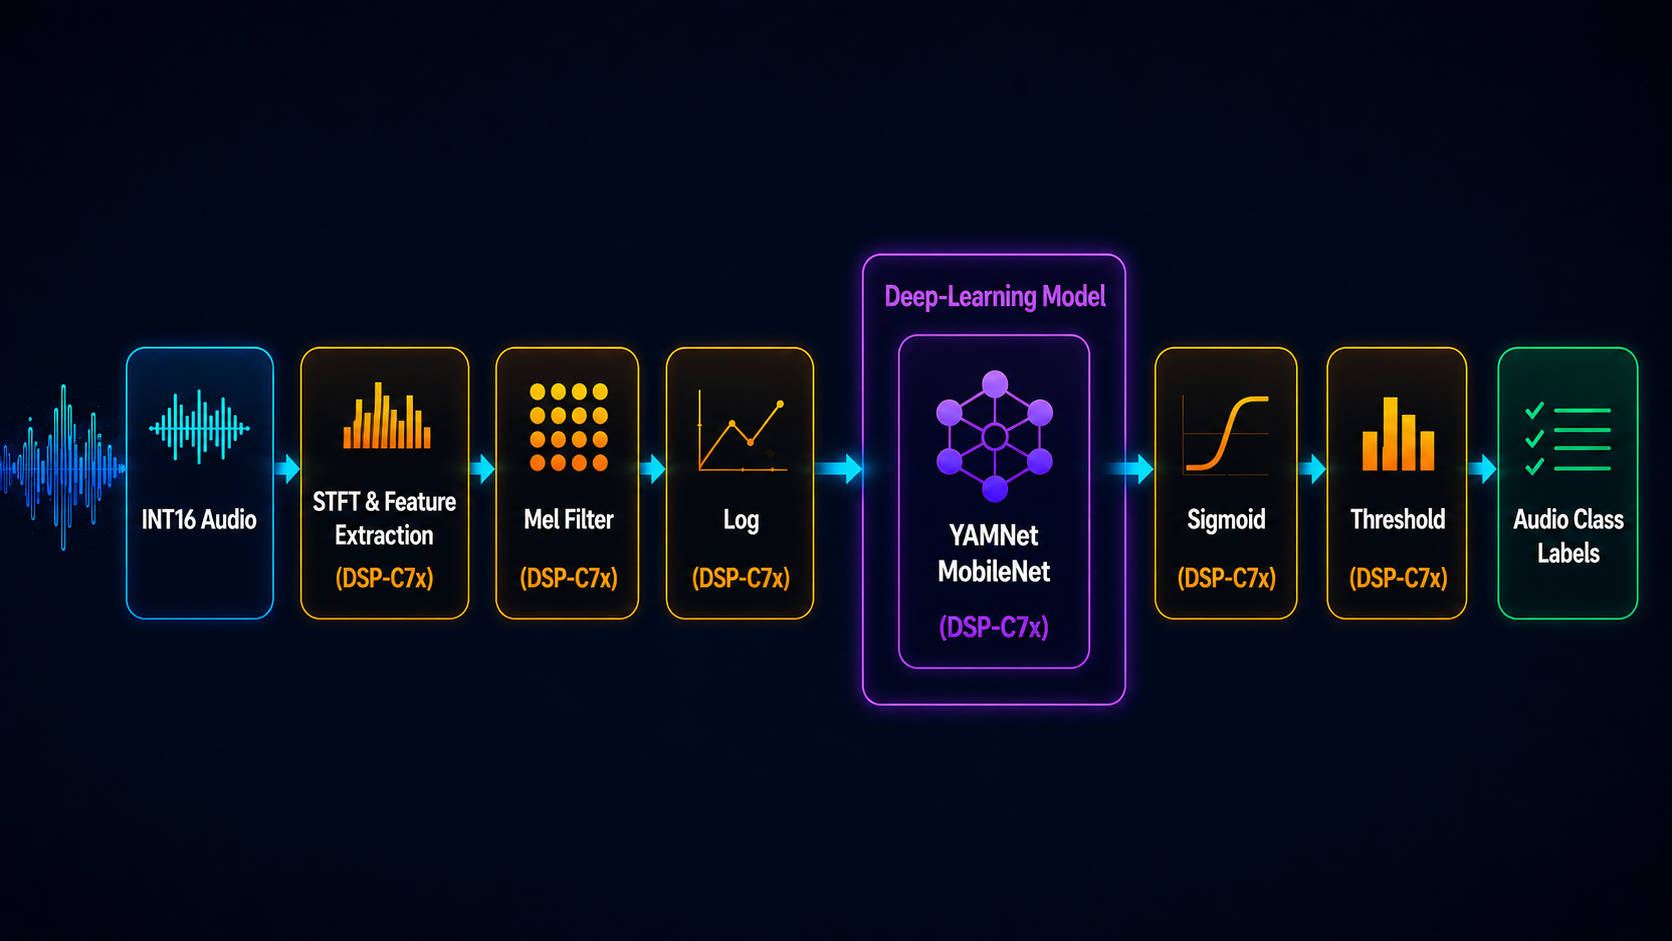
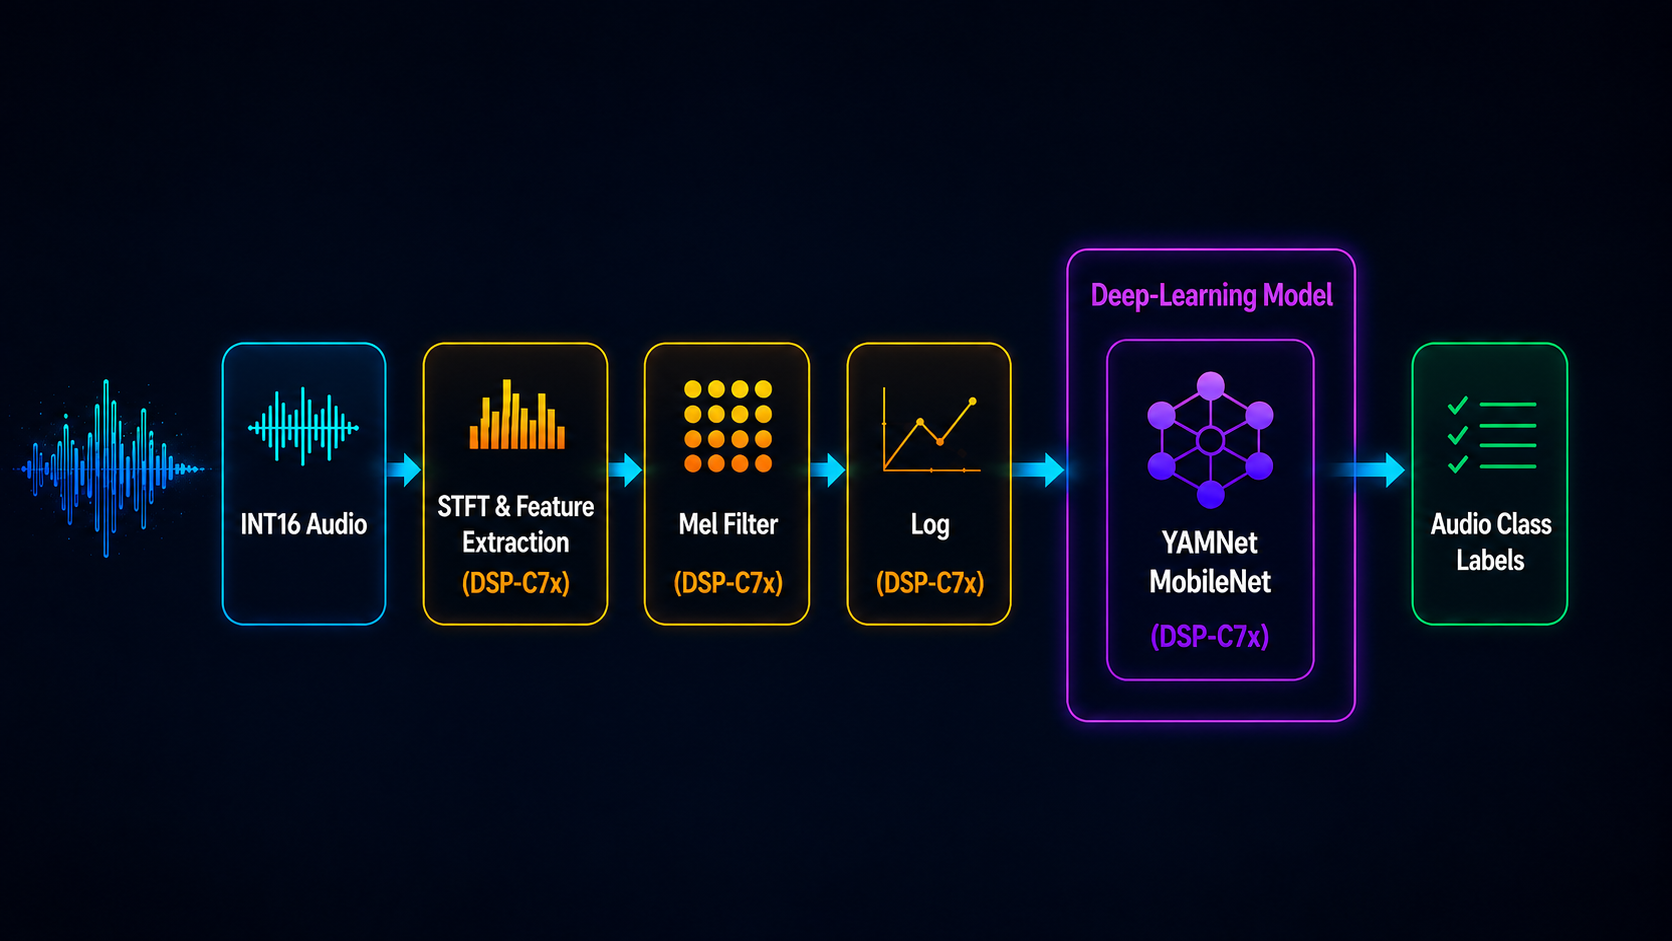
feat: am62dxx: show theme-aware data-flow images in audio-classification and speech-enhancement demos
- Add light-theme variants: audio-classification-flow-light.png, speech-enhancement-flow-light.png
- Replace audio-classification-flow.png with updated dark-theme image
- AudioClassification.vue: inject useTheme + isLight, bind :src to switch on theme
- SpeechEnhancement.vue: bind :src to switch between dark/light flow images using existing isLight

Changed region(s): [[0.0, 0.2465, 0.9952, 0.8013], [0.4043, 0.339, 0.4665, 0.3698]]

diff --git a/frontend/src/demos/AudioClassification.vue b/frontend/src/demos/AudioClassification.vue
@@ -15,7 +15,7 @@
           </p>
 
           <!-- Signal flow image -->
-          <img src="/images/audio-classification-flow.png" alt="Audio Classification Pipeline" class="flow-img" />
+          <img :src="isLight ? '/images/audio-classification-flow-light.png' : '/images/audio-classification-flow.png'" alt="Audio Classification Pipeline" class="flow-img" />
 
           <!-- Features -->
           <ul class="feat-list">
@@ -154,6 +154,7 @@
 
 <script setup>
 import { ref, computed, onMounted, onUnmounted } from 'vue'
+import { useTheme } from 'vuetify'
 import {
   getAudioClassificationInfo,
   getAudioClassificationModels,
@@ -164,6 +165,9 @@ import {
 } from '@/utils/audioClassificationApi'
 
 const emit = defineEmits(['running-change'])
+
+const vuetifyTheme = useTheme()
+const isLight = computed(() => vuetifyTheme.global.name.value === 'tiLight')
 
 const isRunning      = ref(false)
 const modelLoading   = ref(false)

diff --git a/devices/am62dxx/ui/demos/SpeechEnhancement.vue b/devices/am62dxx/ui/demos/SpeechEnhancement.vue
@@ -16,7 +16,7 @@
           </p>
 
           <!-- Signal flow image -->
-          <img src="/images/speech-enhancement-flow.png" alt="Speech Enhancement Pipeline" class="flow-img" />
+          <img :src="isLight ? '/images/speech-enhancement-flow-light.png' : '/images/speech-enhancement-flow.png'" alt="Speech Enhancement Pipeline" class="flow-img" />
 
           <!-- Features -->
           <ul class="feat-list">
